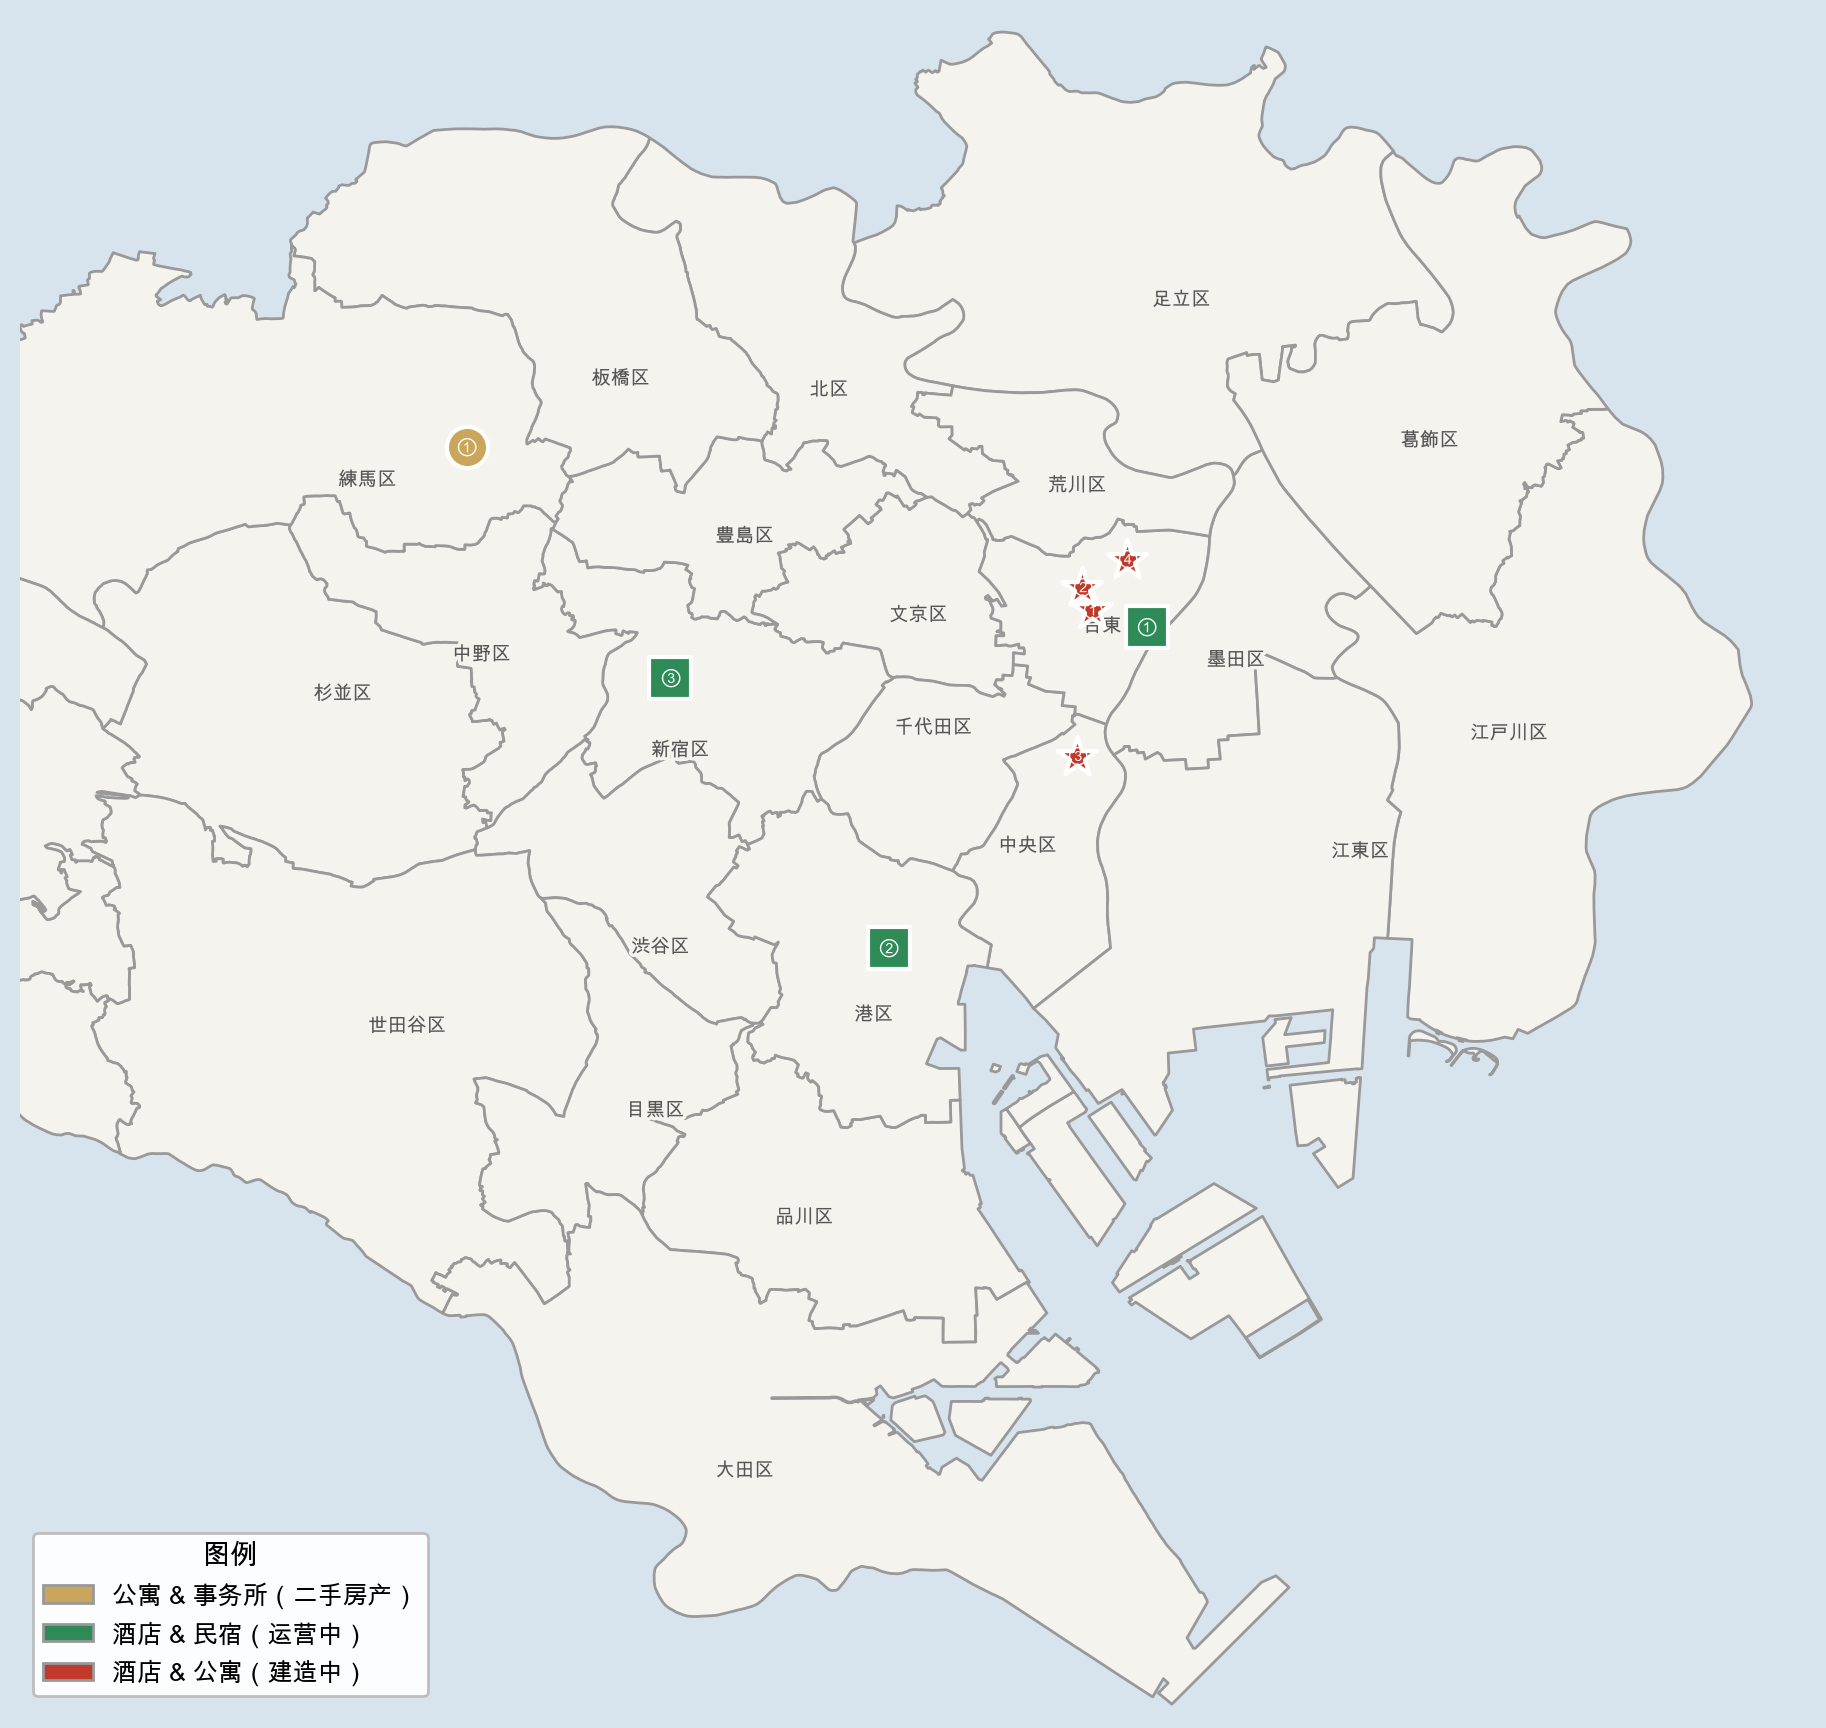
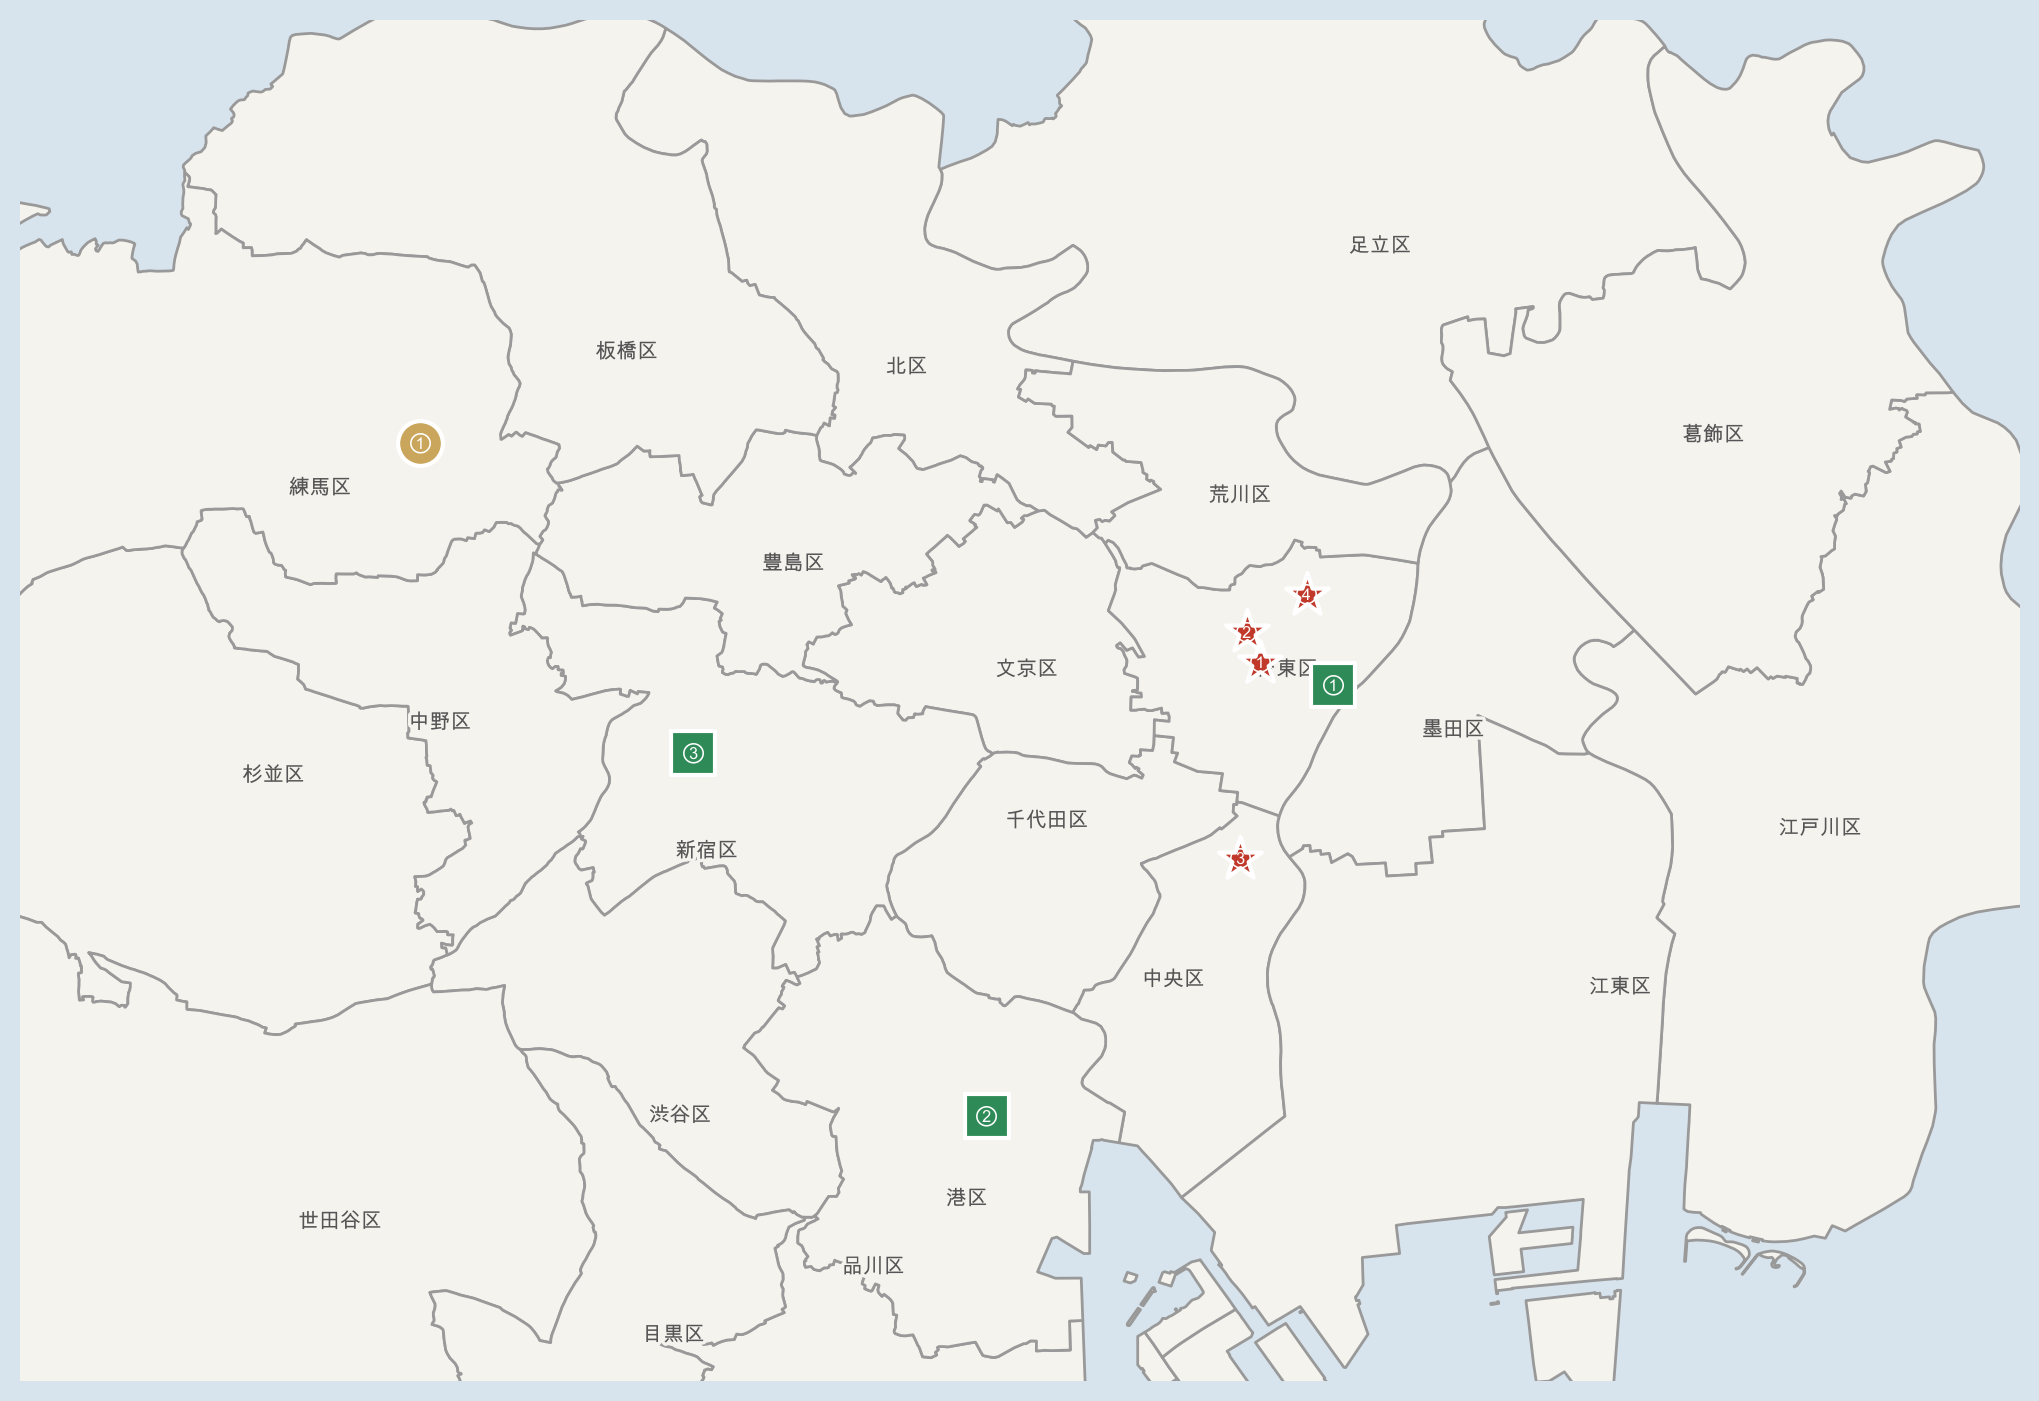
Fix calendar checkout logic + refresh project map
- Calendar: allow checkout ON first Closed night (guest leaves before that night starts)
- Map: remove embedded legend (HTML overlay handles it), crop sea whitespace, tighten viewport

diff --git a/home-shinjuku.html b/home-shinjuku.html
@@ -1021,9 +1021,12 @@
         // 退房日超过首个Closed夜 → 不可选
         const isBlockedByGap = pickStep === 1 && checkoutCutoff && dateStr > checkoutCutoff;
 
+        // 退房模式下：第一个Closed夜（checkoutCutoff）当天早上可退房，应显示为可选
+        const isCheckoutOnClosed = pickStep === 1 && checkoutCutoff && dateStr === checkoutCutoff && !isTooSoon;
+
         if (isPast || isTooSoon || isBlockedByGap) {
           el.className = isPast ? 'cal-day past' : 'cal-day closed';
-        } else if (status === 'Avail') {
+        } else if (isCheckoutOnClosed || status === 'Avail') {
           el.className = 'cal-day avail';
           el.onclick = () => pickDate(dateStr);
         } else if (status === 'Closed') {
